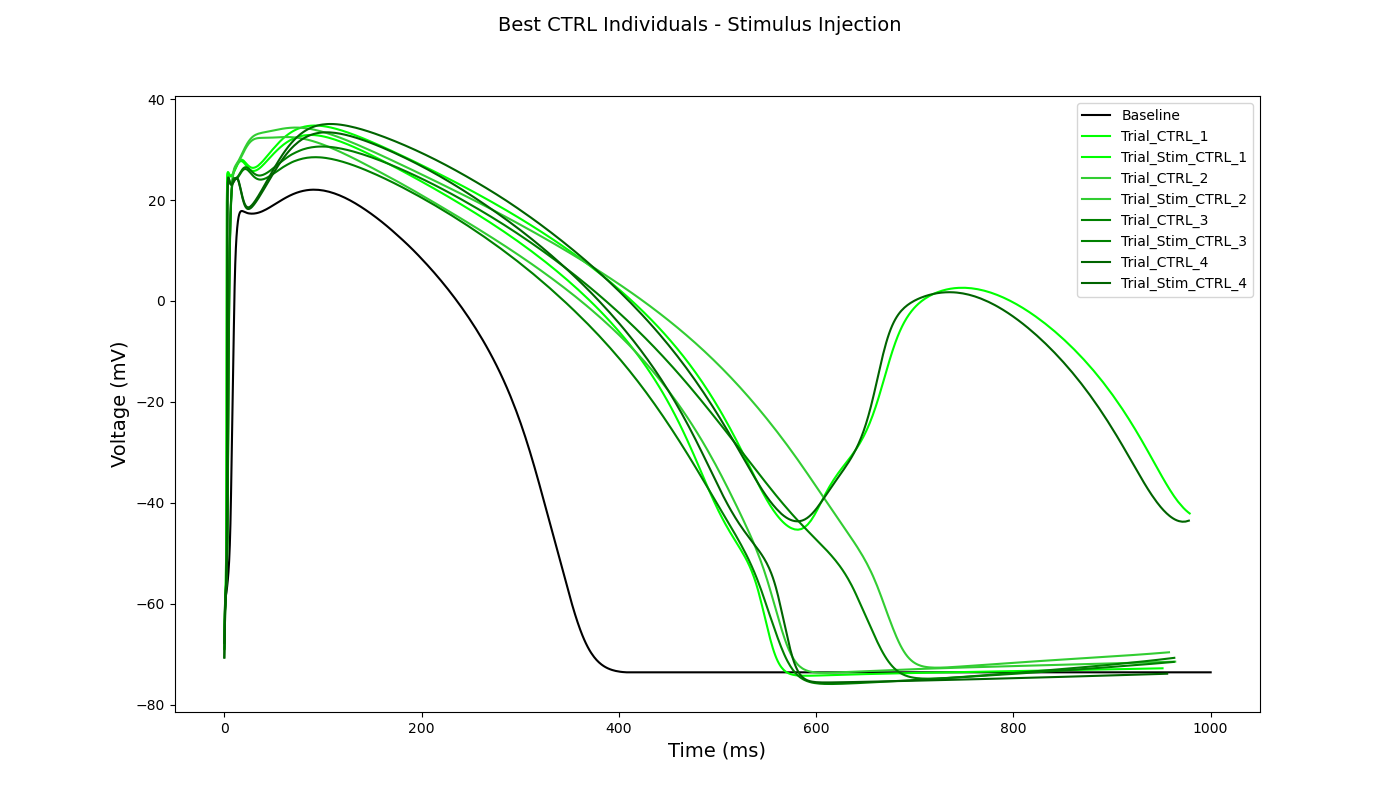
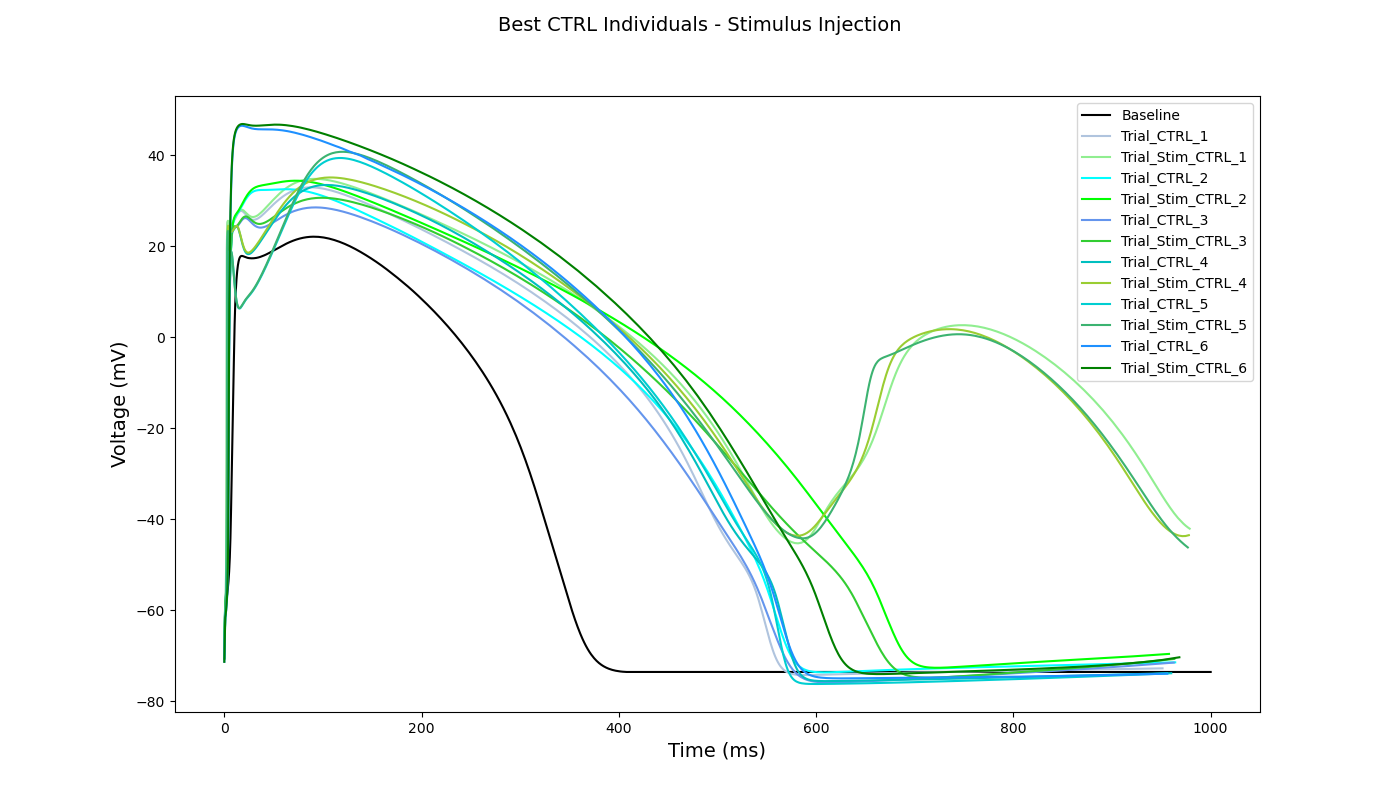
newplot

diff --git a/GA_bNa_bCa_NaK/stim.py b/GA_bNa_bCa_NaK/stim.py
@@ -12,15 +12,16 @@ plt.figure(figsize=(14,8))
 t, v = baseline_run()
 plt.plot(t, v, '-k', label = 'Baseline')
 
-ind_5, ind_7, ind_8, ind_9, ind_ctrl1, ind_ctrl2, ind_ctrl4, ind_ctrl5 = ind_excel()
+ind_1, ind_2, ind_3, ind_4, ind_5, ind_6, ind_7, ind_8, ind_9, ind_10, ind_ctrl1, ind_ctrl2, ind_ctrl3, ind_ctrl4, ind_ctrl5, ind_ctrl6 = ind_excel()
 
-pop_HCM = [ind_5, ind_7, ind_8, ind_9]
-c_HCM = ['cyan', 'dodgerblue', 'blue', 'darkblue']
+pop_HCM = [ind_1, ind_2, ind_3, ind_4, ind_5, ind_6, ind_7, ind_8, ind_9, ind_10]
+c_HCM = ['lightsteelblue', 'cyan', 'cornflowerblue', 'c', 'darkturquoise', 'dodgerblue', 'blue', 'royalblue', 'midnightblue', 'darkblue']
+c_CTRL = ['lightgreen', 'lime', 'limegreen', 'yellowgreen', 'mediumseagreen', 'green', 'darkolivegreen', 'darkgreen', 'forestgreen','seagreen']
 
 for i in list(range(0,len(pop_HCM))):
     t_leak, v_leak, t_rrc, v_rrc = stim(pop_HCM[i])
     plt.plot(t_leak, v_leak, color=c_HCM[i], label = f'Trial_HCM_{i+1}')
-    plt.plot(t_rrc, v_rrc, color=c_HCM[i], label = f'Trial_Stim_HCM_{i+1}')
+    plt.plot(t_rrc, v_rrc, color=c_CTRL[i], label = f'Trial_Stim_HCM_{i+1}')
 
 plt.legend(loc='upper right')
 plt.ylabel('Voltage (mV)', fontsize=14)
@@ -34,12 +35,11 @@ plt.figure(figsize=(14,8))
 t, v = baseline_run()
 plt.plot(t, v, '-k', label = 'Baseline')
 
-pop_CTRL = [ind_ctrl1, ind_ctrl2, ind_ctrl4, ind_ctrl5]
-c_CTRL = ['lime', 'limegreen', 'green', 'darkgreen']
+pop_CTRL = [ind_ctrl1, ind_ctrl2, ind_ctrl3, ind_ctrl4, ind_ctrl5, ind_ctrl6]
 
 for i in list(range(0,len(pop_CTRL))):
     t_leak, v_leak, t_rrc, v_rrc = stim(pop_CTRL[i])
-    plt.plot(t_leak, v_leak, color=c_CTRL[i], label = f'Trial_CTRL_{i+1}')
+    plt.plot(t_leak, v_leak, color=c_HCM[i], label = f'Trial_CTRL_{i+1}')
     plt.plot(t_rrc, v_rrc, color=c_CTRL[i], label = f'Trial_Stim_CTRL_{i+1}')
 
 plt.legend(loc='upper right')

diff --git a/GA_bNa_bCa_NaK/plot_GA.py b/GA_bNa_bCa_NaK/plot_GA.py
@@ -20,7 +20,7 @@ ind_1, ind_2, ind_3, ind_4, ind_5, ind_6, ind_7, ind_8, ind_9, ind_10, ind_ctrl1
 pop_HCM = [ind_1, ind_2, ind_3, ind_4, ind_5, ind_6, ind_7, ind_8, ind_9, ind_10]
 pop_CTRL = [ind_ctrl1, ind_ctrl2, ind_ctrl3, ind_ctrl4, ind_ctrl5, ind_ctrl6]
 c_HCM = ['lightsteelblue', 'cyan', 'cornflowerblue', 'c', 'darkturquoise', 'dodgerblue', 'blue', 'royalblue', 'midnightblue', 'darkblue']
-c_CTRL = ['lime', 'limegreen', 'green', 'darkgreen', 'forestgreen','seagreen']
+c_CTRL = ['lightgreen', 'lime', 'limegreen', 'yellowgreen', 'mediumseagreen', 'green', 'darkolivegreen' 'darkgreen', 'forestgreen','seagreen']
 
 for i in list(range(0,len(pop_HCM))):
     t, v = plot_GA(pop_HCM[i])
